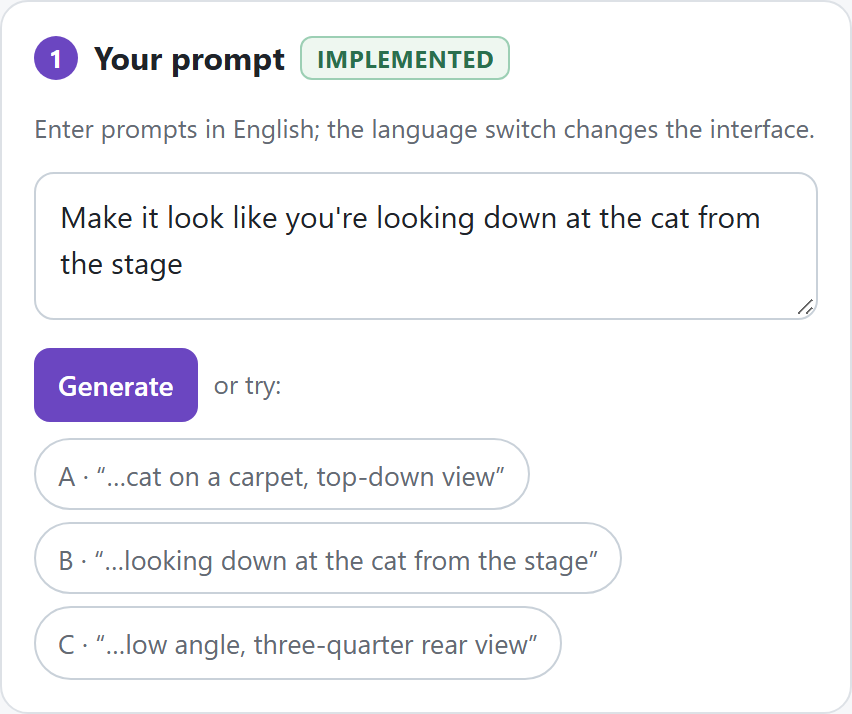
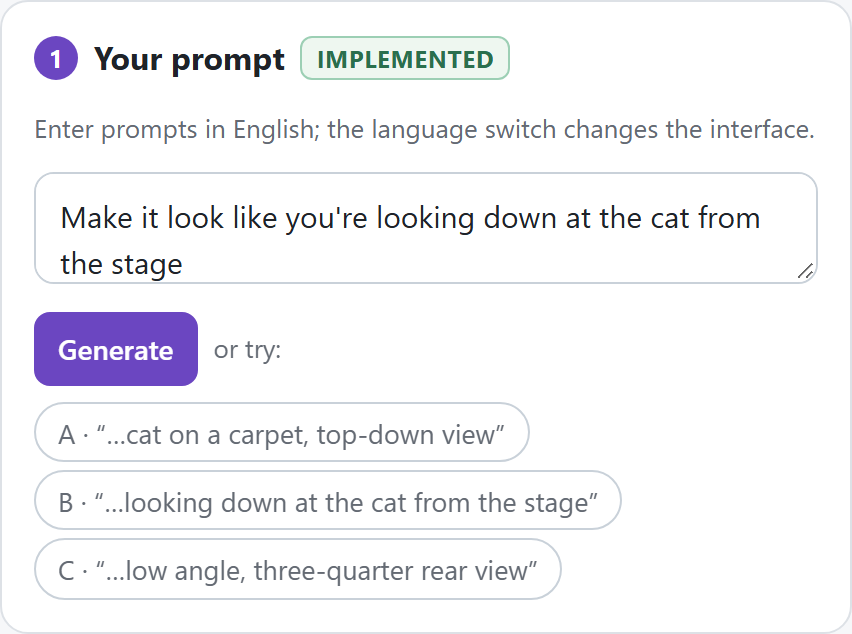
Shorter prompt box and tighter example chips so cards 1 and 2 line up

diff --git a/prototype/index.html b/prototype/index.html
@@ -30,14 +30,15 @@
     .card.attention{border-color:var(--amber-line);box-shadow:0 0 0 3px var(--amber-bg);}
   .card h2{font-size:16px;margin:0 0 10px;display:flex;align-items:center;gap:8px;flex-wrap:wrap;}
   .num{display:inline-flex;align-items:center;justify-content:center;width:22px;height:22px;border-radius:50%;background:var(--purple);color:#fff;font-size:13px;font-weight:700;flex:0 0 auto;}
-  textarea{width:100%;min-height:74px;font:inherit;border:1px solid #c9d1d9;border-radius:10px;padding:10px 12px;resize:vertical;color:var(--ink);}
+  textarea{width:100%;height:56px;min-height:44px;font:inherit;border:1px solid #c9d1d9;border-radius:10px;padding:10px 12px;resize:vertical;color:var(--ink);}
   textarea:focus,button:focus-visible,input:focus-visible,select:focus-visible,.thumb:focus-visible{outline:2px solid var(--purple);outline-offset:2px;}
   .row{display:flex;flex-wrap:wrap;gap:8px;align-items:center;}
   button{font:inherit;font-size:14px;border:1px solid #c9d1d9;background:#fff;color:var(--ink);border-radius:8px;padding:7px 11px;cursor:pointer;}
   button:hover{background:#f0f2f5;}
   button.primary{background:var(--purple);border-color:var(--purple);color:#fff;font-weight:600;}
   button.primary:hover{background:#5a3aa8;}
-  .examples{display:flex;flex-direction:column;align-items:flex-start;gap:6px;}
+  .examples{display:flex;flex-direction:column;align-items:flex-start;gap:4px;}
+  .examples button.chip{padding:4px 11px;}
   button.chip{border-radius:999px;font-size:13.5px;color:var(--sub);text-align:left;}
   .small{font-size:13px;color:var(--sub);}
   .kv{display:grid;grid-template-columns:118px minmax(0,1fr);gap:6px 10px;margin:0 0 10px;}
